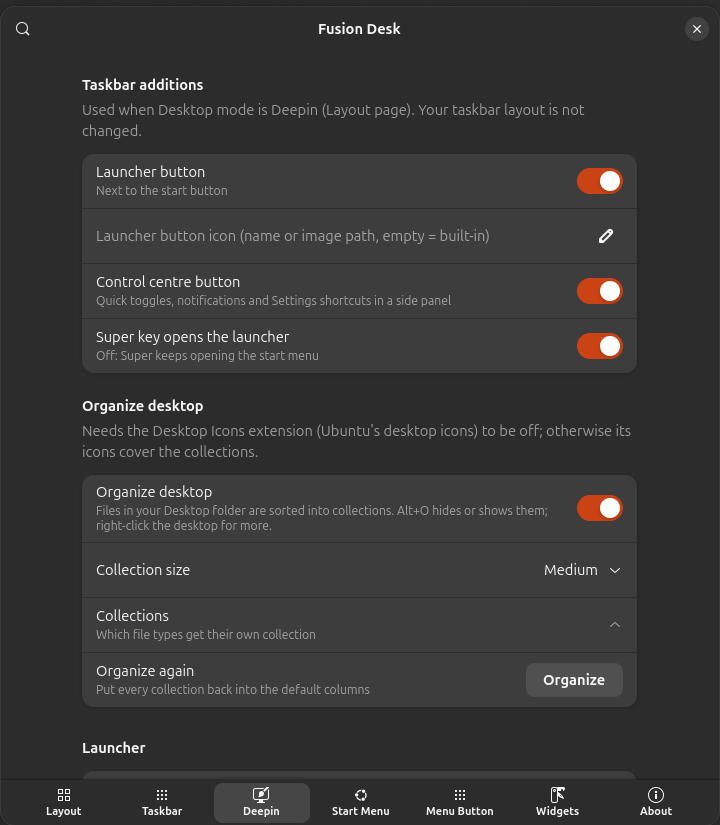
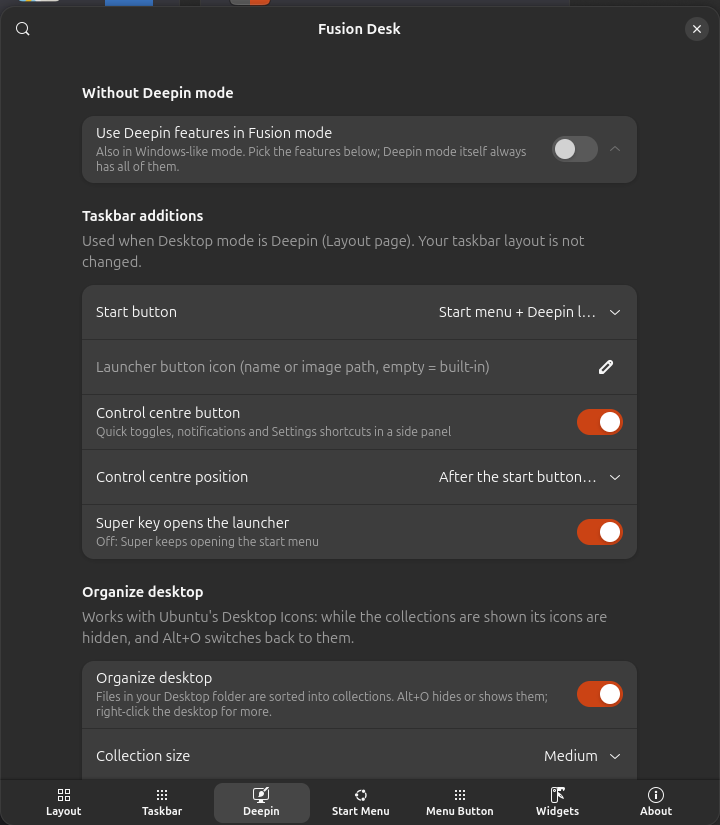
README: desktop modes, Deepin features, new screenshots; version 10

diff --git a/README.md b/README.md
@@ -16,11 +16,15 @@ All-in-one GNOME Shell 50 extension: one panel with a taskbar, a start menu and 
 | ![Deepin mode: floating taskbar](screenshots/14-deepin-floating-taskbar.png) | |
 
 ## Features
-- **Desktop modes** (Settings → Layout → Desktop mode, or right-click the panel → Desktop mode), switched live without logging out. Your taskbar (layout, widgets, size, style) stays exactly as you set it up; a mode only adds features, icons and theming:
+- **Desktop modes**: Settings → Layout → *Desktop mode*, or right-click the panel → *Desktop mode*. Switches live, no logout. Your taskbar (layout, widgets, size, style) stays exactly as you set it up; a mode only adds features, icons and theming.
   - **Fusion**: the taskbar described below, nothing added.
-  - **Deepin** (options on the *Deepin* page): a launcher button next to the start button and a control-centre bell in the tray; Super opens the Deepin launcher (optional). Fullscreen blurred launcher with category rail and search, or a small windowed launcher (category or A–Z list, favourites, all apps). Right-edge control centre with GNOME's own quick toggles, volume/brightness, notifications and Settings shortcuts. **Organize Desktop**: files in the Desktop folder sorted into collections (folders, documents, pictures, videos, music, apps, others) you can move, resize (small / medium / large) and hide with Alt+O; right-click the desktop for *Organize desktop*. Glossy glass look on the taskbar, optional **floating taskbar** (rounded, with a gap from the screen edges, like Deepin's Fashion dock; same layout and widgets), optional Deepin accent colour (Blue, Teal, Green, Yellow, Orange, Pink, Purple, Grey; yours comes back when you leave the mode), blur, light / dark / follow-system colours, and an optional icon / cursor theme while the mode is on (Deepin's own "bloom" icons: `sudo apt install deepin-icon-theme`). Organize Desktop also has a *Computer* collection (Home, Trash, drives) and works with Ubuntu's *Desktop Icons*: while the collections are shown its icons are hidden on screen, and Alt+O switches back to them. *Start button* setting: start menu + Deepin launcher button, or one button that opens the Deepin launcher, or one button with the Fusion start menu. The glossy look also reaches the start menu.
-  - **Deepin features without Deepin mode**: Settings → Deepin → *Use Deepin features in Fusion mode* turns on only the parts you pick (launcher, control centre, Organize Desktop, glossy look, floating taskbar, accent colour, icon/cursor theme) in Fusion or Windows-like mode.
-  - **Windows-like** (options on the *Taskbar* page): a search box (or icon) and a Task View button right after the start button, rounded Windows-style hover tiles and blur.
+  - **Windows-like** (options on the *Taskbar* page): a search box (or icon) and a Task View button right after the start button, rounded Windows-style hover tiles, blur.
+  - **Deepin** (options on the *Deepin* page):
+    - **Launcher**: fullscreen blurred app grid with a category rail and search, or a small windowed launcher (category or A–Z list, favourites, all apps). *Start button*: start menu + a Deepin launcher button, one button that opens the Deepin launcher, or one button with the Fusion start menu. Super can open the launcher.
+    - **Control centre**: GNOME's own quick toggles, volume and brightness, Settings shortcuts, notifications (own scrolling area, *Clear all*) and a month calendar at the bottom. Its button sits after the start button (panel opens on the left), in the tray, or on the clock (clicking the clock opens it).
+    - **Organize Desktop**: files in your Desktop folder sorted into collections (Computer = Home, Trash and drives, folders, documents, pictures, videos, music, apps, others). Move them by the title bar, resize them (small / medium / large or drag the corner), hide or show them with Alt+O, right-click the desktop for *Organize desktop*. Works with Ubuntu's *Desktop Icons*: its icons are hidden on screen while the collections show, and come back with Alt+O.
+    - **Look**: glossy glass taskbar and start menu, blur, optional **floating taskbar** (rounded, with a gap from the screen edges, like Deepin's Fashion dock), light / dark / follow-system colours, optional Deepin accent colour and icon / cursor theme while the mode is on (Deepin's own "bloom" icons: `sudo apt install deepin-icon-theme`). Your own accent and themes come back when you leave the mode.
+  - **Deepin features without Deepin mode**: Settings → Deepin → *Use Deepin features in Fusion mode* turns on only the parts you pick (launcher, control centre, Organize Desktop, glossy look, floating taskbar, accent colour, icon / cursor theme) in Fusion or Windows-like mode.
 - **Panel**: top or bottom, height, opacity, intellihide (overlap modes + edge-pressure reveal), dynamic opacity, hide the overview dash, panels on every monitor, compact spacing for every indicator, and a **Pills** style (default) that groups the tray, clock and system monitor into rounded blocks (or **Flat**).
 - **Accent colour**: highlights, system-monitor icons, taskbar indicators and pills follow the system accent colour (Settings → Appearance) and update live.
 - **Status icons**: show or hide each system icon one by one (network, Bluetooth, volume, microphone, camera, battery, battery percentage, Night Light, …).
